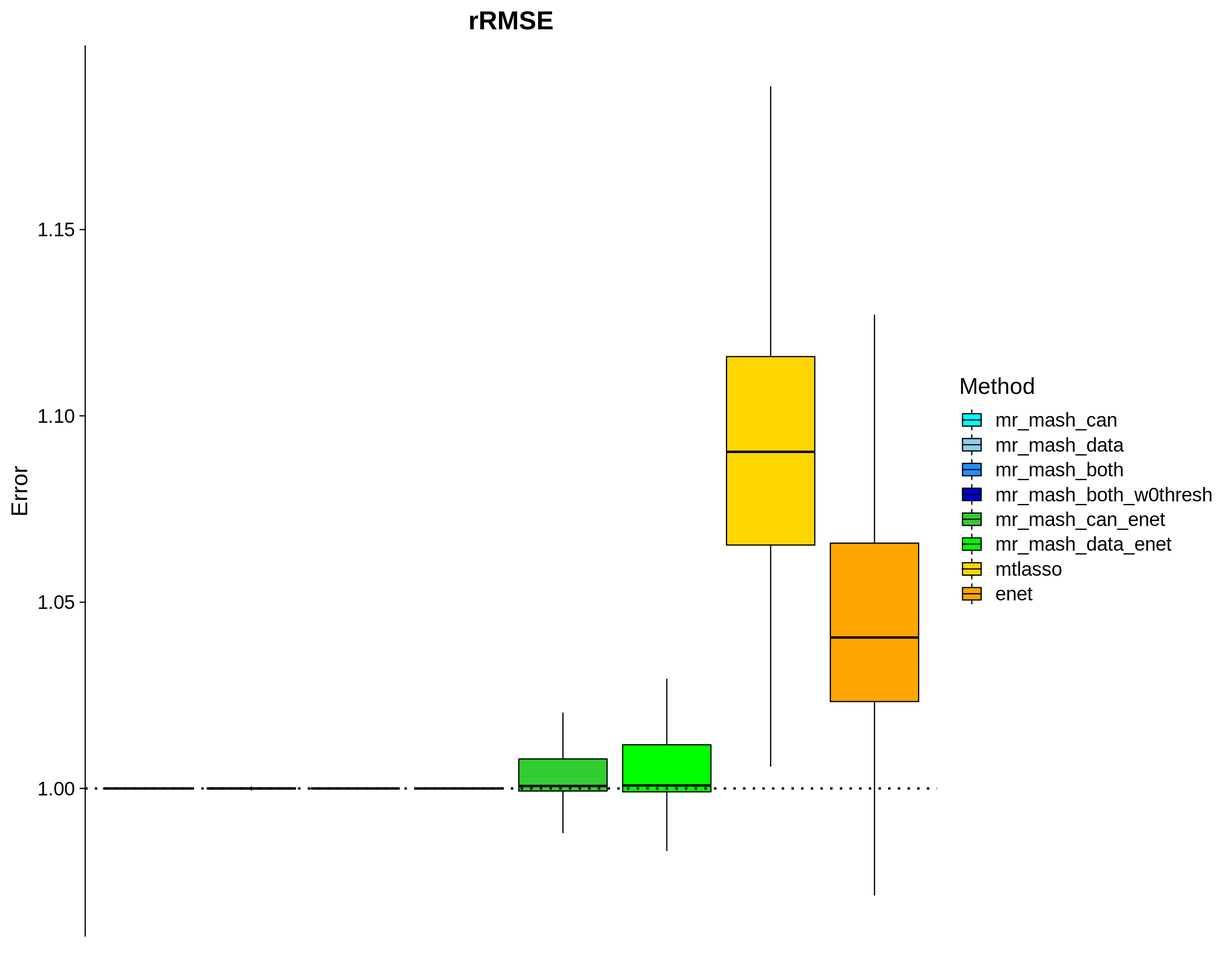
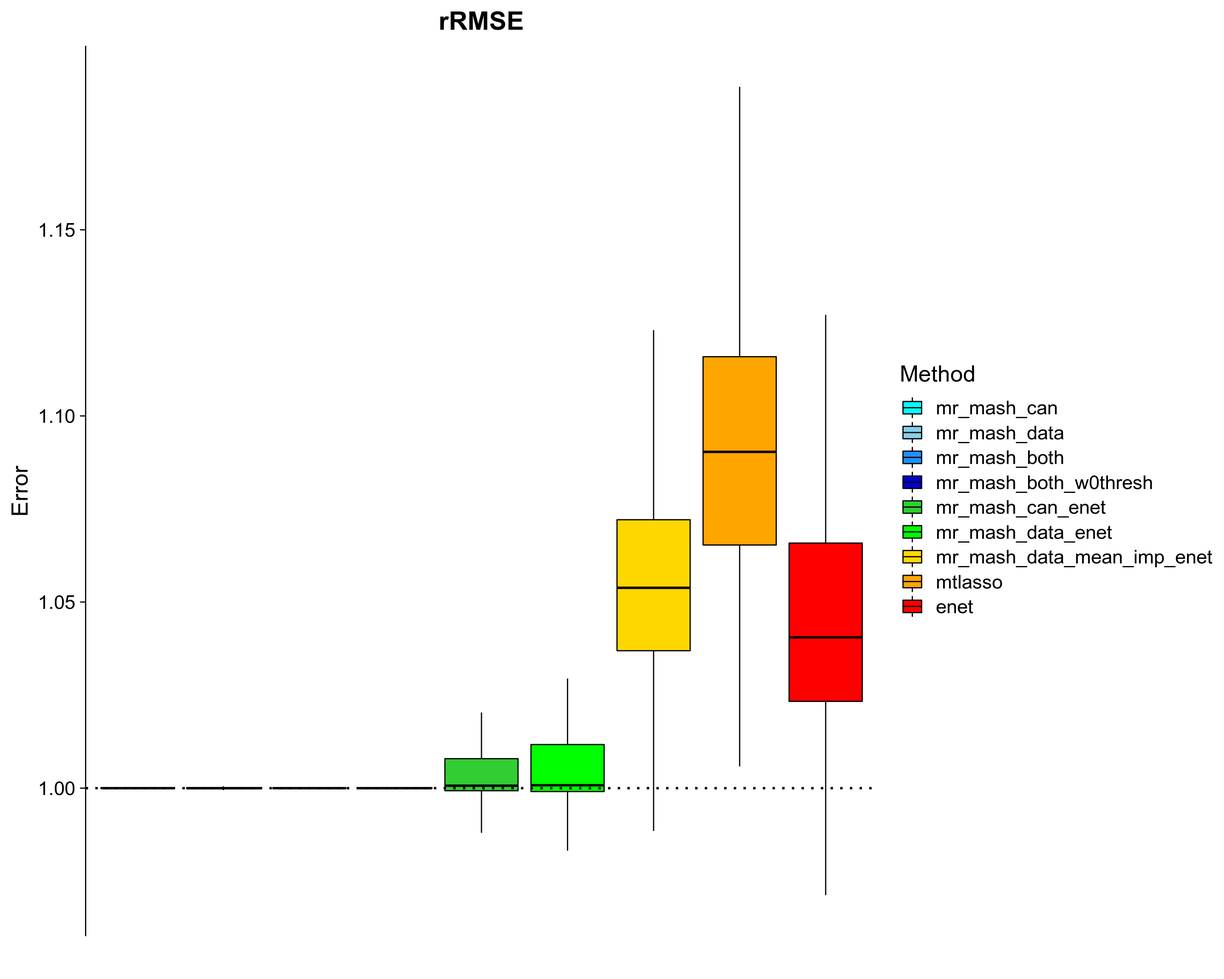
Build site.

diff --git a/docs/results_mvreg_all_genes_prior_GTExrealX_indepV_sharedB_r10_indepReps_missing_Y.html b/docs/results_mvreg_all_genes_prior_GTExrealX_indepV_sharedB_r10_indepReps_missing_Y.html
@@ -11,7 +11,7 @@
 
 <meta name="author" content="Fabio Morgante" />
 
-<meta name="date" content="2022-06-06" />
+<meta name="date" content="2023-02-20" />
 
 <title>Simulations with GTEx genotypes and shared effects – independent replicates and missing values in Y</title>
 
@@ -372,7 +372,7 @@ div.tocify {
 
 <h1 class="title toc-ignore">Simulations with GTEx genotypes and shared effects – independent replicates and missing values in Y</h1>
 <h4 class="author">Fabio Morgante</h4>
-<h4 class="date">June 06, 2022</h4>
+<h4 class="date">February 20, 2023</h4>
 
 </div>
 
@@ -397,7 +397,7 @@ div.tocify {
 <div class="tab-content">
 <div id="summary" class="tab-pane fade in active">
 <p>
-<strong>Last updated:</strong> 2022-06-06
+<strong>Last updated:</strong> 2023-02-20
 </p>
 <p>
 <strong>Checks:</strong> <span class="glyphicon glyphicon-ok text-success" aria-hidden="true"></span> 7 <span class="glyphicon glyphicon-exclamation-sign text-danger" aria-hidden="true"></span> 0
@@ -488,16 +488,16 @@ This reproducible <a href="http://rmarkdown.rstudio.com">R Markdown</a> analysis
 <div class="panel panel-default">
 <div class="panel-heading">
 <p class="panel-title">
-<a data-toggle="collapse" data-parent="#workflowr-checks" href="#strongRepositoryversionstrongahrefhttpsgithubcomfmorgantemrmashtesttree8738ba8e55485dc62240f3fbce866c8ad2acae44targetblank8738ba8a"> <span class="glyphicon glyphicon-ok text-success" aria-hidden="true"></span> <strong>Repository version:</strong> <a href="https://github.com/fmorgante/mr_mash_test/tree/8738ba8e55485dc62240f3fbce866c8ad2acae44" target="_blank">8738ba8</a> </a>
+<a data-toggle="collapse" data-parent="#workflowr-checks" href="#strongRepositoryversionstrongahrefhttpsgithubcomfmorgantemrmashtesttreeac84a008e03de774c5562d443e628610a813dfa7targetblankac84a00a"> <span class="glyphicon glyphicon-ok text-success" aria-hidden="true"></span> <strong>Repository version:</strong> <a href="https://github.com/fmorgante/mr_mash_test/tree/ac84a008e03de774c5562d443e628610a813dfa7" target="_blank">ac84a00</a> </a>
 </p>
 </div>
[2 lines of base64/hex data omitted]
 <div class="panel-body">
 <p>
 Great! You are using Git for version control. Tracking code development and connecting the code version to the results is critical for reproducibility.
 </p>
 <p>
-The results in this page were generated with repository version <a href="https://github.com/fmorgante/mr_mash_test/tree/8738ba8e55485dc62240f3fbce866c8ad2acae44" target="_blank">8738ba8</a>. See the <em>Past versions</em> tab to see a history of the changes made to the R Markdown and HTML files.
+The results in this page were generated with repository version <a href="https://github.com/fmorgante/mr_mash_test/tree/ac84a008e03de774c5562d443e628610a813dfa7" target="_blank">ac84a00</a>. See the <em>Past versions</em> tab to see a history of the changes made to the R Markdown and HTML files.
 </p>
 <p>
 Note that you need to be careful to ensure that all relevant files for the analysis have been committed to Git prior to generating the results (you can use <code>wflow_publish</code> or <code>wflow_git_commit</code>). workflowr only checks the R Markdown file, but you know if there are other scripts or data files that it depends on. Below is the status of the Git repository when the results were generated:
@@ -514,6 +514,8 @@ Ignored files:
     Ignored:    code/fit_mr_mash.66662433.err
     Ignored:    code/fit_mr_mash.66662433.out
     Ignored:    data/cis_eqtl_analysis_ready
+    Ignored:    data/gtex-v8-full-X-number-of-snps-summary-stats.txt
+    Ignored:    data/gtex-v8-full-X-number-of-snps.txt
     Ignored:    data/gtex-v8-ids-folds.txt
     Ignored:    data/gtex-v8-ids.txt
     Ignored:    data/gtex-v8-manifest-2ormore-tissues-nopath-nosuffix-batch1.txt
@@ -756,9 +758,7 @@ Ignored files:
     Ignored:    output/mvreg_all_genes_prior_GTExrealX_indepV_B_1causalrespr10_indepReps.tar
     Ignored:    output/mvreg_all_genes_prior_GTExrealX_indepV_B_1causalrespr10_indepReps_inter.tar
     Ignored:    output/mvreg_all_genes_prior_GTExrealX_indepV_B_1causalrespr10_indepReps_missing_Y.tar
-    Ignored:    output/mvreg_all_genes_prior_GTExrealX_indepV_B_1causalrespr10_indepReps_missing_Y/
     Ignored:    output/mvreg_all_genes_prior_GTExrealX_indepV_B_1causalrespr10_indepReps_missing_Y_inter.tar
-    Ignored:    output/mvreg_all_genes_prior_GTExrealX_indepV_B_1causalrespr10_indepReps_missing_Y_inter/
     Ignored:    output/mvreg_all_genes_prior_GTExrealX_indepV_B_1causalrespr10_inter.tar
     Ignored:    output/mvreg_all_genes_prior_GTExrealX_indepV_B_1causalrespr10_lowPVE.html
     Ignored:    output/mvreg_all_genes_prior_GTExrealX_indepV_B_1causalrespr10_lowPVE.tar
@@ -768,9 +768,7 @@ Ignored files:
     Ignored:    output/mvreg_all_genes_prior_GTExrealX_indepV_indepB_r10_indepReps.tar
     Ignored:    output/mvreg_all_genes_prior_GTExrealX_indepV_indepB_r10_indepReps_inter.tar
     Ignored:    output/mvreg_all_genes_prior_GTExrealX_indepV_indepB_r10_indepReps_missing_Y.tar
-    Ignored:    output/mvreg_all_genes_prior_GTExrealX_indepV_indepB_r10_indepReps_missing_Y/
     Ignored:    output/mvreg_all_genes_prior_GTExrealX_indepV_indepB_r10_indepReps_missing_Y_inter.tar
-    Ignored:    output/mvreg_all_genes_prior_GTExrealX_indepV_indepB_r10_indepReps_missing_Y_inter/
     Ignored:    output/mvreg_all_genes_prior_GTExrealX_indepV_indepB_r10_inter.tar
     Ignored:    output/mvreg_all_genes_prior_GTExrealX_indepV_indepB_r10_lowPVE.html
     Ignored:    output/mvreg_all_genes_prior_GTExrealX_indepV_indepB_r10_lowPVE.tar
@@ -783,9 +781,7 @@ Ignored files:
     Ignored:    output/mvreg_all_genes_prior_GTExrealX_indepV_sharedB_2blocksr10_diffPVE_indepReps.tar
     Ignored:    output/mvreg_all_genes_prior_GTExrealX_indepV_sharedB_2blocksr10_diffPVE_indepReps_inter.tar
     Ignored:    output/mvreg_all_genes_prior_GTExrealX_indepV_sharedB_2blocksr10_diffPVE_indepReps_missing_Y.tar
-    Ignored:    output/mvreg_all_genes_prior_GTExrealX_indepV_sharedB_2blocksr10_diffPVE_indepReps_missing_Y/
     Ignored:    output/mvreg_all_genes_prior_GTExrealX_indepV_sharedB_2blocksr10_diffPVE_indepReps_missing_Y_inter.tar
-    Ignored:    output/mvreg_all_genes_prior_GTExrealX_indepV_sharedB_2blocksr10_diffPVE_indepReps_missing_Y_inter/
     Ignored:    output/mvreg_all_genes_prior_GTExrealX_indepV_sharedB_2blocksr10_diffPVE_inter.tar
     Ignored:    output/mvreg_all_genes_prior_GTExrealX_indepV_sharedB_2blocksr10_inter.tar
     Ignored:    output/mvreg_all_genes_prior_GTExrealX_indepV_sharedB_2blocksr10_lowPVE.html
@@ -796,9 +792,7 @@ Ignored files:
     Ignored:    output/mvreg_all_genes_prior_GTExrealX_indepV_sharedB_3causalrespr10_indepReps.tar
     Ignored:    output/mvreg_all_genes_prior_GTExrealX_indepV_sharedB_3causalrespr10_indepReps_inter.tar
     Ignored:    output/mvreg_all_genes_prior_GTExrealX_indepV_sharedB_3causalrespr10_indepReps_missing_Y.tar
-    Ignored:    output/mvreg_all_genes_prior_GTExrealX_indepV_sharedB_3causalrespr10_indepReps_missing_Y/
     Ignored:    output/mvreg_all_genes_prior_GTExrealX_indepV_sharedB_3causalrespr10_indepReps_missing_Y_inter.tar
-    Ignored:    output/mvreg_all_genes_prior_GTExrealX_indepV_sharedB_3causalrespr10_indepReps_missing_Y_inter/
     Ignored:    output/mvreg_all_genes_prior_GTExrealX_indepV_sharedB_3causalrespr10_inter.tar
     Ignored:    output/mvreg_all_genes_prior_GTExrealX_indepV_sharedB_3causalrespr10_lowPVE.html
     Ignored:    output/mvreg_all_genes_prior_GTExrealX_indepV_sharedB_3causalrespr10_lowPVE.tar
@@ -836,7 +830,7 @@ Ignored files:
     Ignored:    output/mvreg_all_genes_prior_indepX_indepV_sharedB_3causalrespr10_inter.tar
     Ignored:    output/mvreg_mrmash_vs_mtlasso_vs_utmost.html
     Ignored:    output/mvreg_mrmash_vs_mtlasso_vs_utmost/
-    Ignored:    output/sims_paper_figures_inter/
+    Ignored:    output/test/
     Ignored:    output/test_dense_issue.rds
     Ignored:    output/test_sparse_issue.rds
     Ignored:    scripts/.sos/
@@ -880,6 +874,8 @@ Ignored files:
     Ignored:    scripts/compute_grid_cv_fold4_gtex.1457668.out
     Ignored:    scripts/compute_grid_cv_fold5_gtex.1457670.err
     Ignored:    scripts/compute_grid_cv_fold5_gtex.1457670.out
+    Ignored:    scripts/compute_number_of_snps_full_X_summary_stats_gtex.4279497.err
+    Ignored:    scripts/compute_number_of_snps_full_X_summary_stats_gtex.4279497.out
     Ignored:    scripts/compute_sumstats_cv_gtex.1383004.err
     Ignored:    scripts/compute_sumstats_cv_gtex.1383004.out
     Ignored:    scripts/compute_sumstats_cv_gtex.1403027.err
@@ -898,6 +894,8 @@ Ignored files:
     Ignored:    scripts/extract_effects_for_data-driven_cov_matrices_cv_fold5_gtex.1440832.out
     Ignored:    scripts/extract_gtex_ids.10523031.err
     Ignored:    scripts/extract_gtex_ids.10523031.out
+    Ignored:    scripts/fit_mrmash_wtccc_sim.1871971.err
+    Ignored:    scripts/fit_mrmash_wtccc_sim.1871971.out
     Ignored:    scripts/get_2ormore_tissues_gtex_v8_manifest.1139717.err
     Ignored:    scripts/get_2ormore_tissues_gtex_v8_manifest.1139717.out
     Ignored:    scripts/get_full_X_gtex_v8_manifest.10520041.err
@@ -920,8 +918,12 @@ Ignored files:
     Ignored:    scripts/get_missing_Y_rate_by_tissue_gtex_v8_manifest.1024109.out
     Ignored:    scripts/get_non_missing_number_samples_by_tissue_gtex_v8_manifest.1024106.err
     Ignored:    scripts/get_non_missing_number_samples_by_tissue_gtex_v8_manifest.1024106.out
+    Ignored:    scripts/get_number_of_snps_full_X_gtex.4264853.err
+    Ignored:    scripts/get_number_of_snps_full_X_gtex.4264853.out
     Ignored:    scripts/get_number_of_tissues_gtex_v8_manifest.1138137.err
     Ignored:    scripts/get_number_of_tissues_gtex_v8_manifest.1138137.out
+    Ignored:    scripts/mrmash_enet_mtlasso_score_10genes_gtex.4111733.err
+    Ignored:    scripts/mrmash_enet_mtlasso_score_10genes_gtex.4111733.out
     Ignored:    scripts/mrmash_enet_mtlasso_score_gtex_test.2692299.err
     Ignored:    scripts/mrmash_enet_mtlasso_score_gtex_test.2692299.out
     Ignored:    scripts/mrmash_enet_score_batch1_gtex.2855527.err
@@ -2690,6 +2692,46 @@ Ignored files:
     Ignored:    scripts/mvreg_all_genes_prior_GTExrealX_indepV_sharedB_r10_indepReps_missing_Y_pipeline_array/mvreg_all_genes_prior_GTExrealX_indepV_sharedB_r10_indepReps_missing_Y_pipeline_array.1014494.out
     Ignored:    scripts/mvreg_all_genes_prior_GTExrealX_indepV_sharedB_r10_indepReps_missing_Y_pipeline_array/mvreg_all_genes_prior_GTExrealX_indepV_sharedB_r10_indepReps_missing_Y_pipeline_array.1014495.err
     Ignored:    scripts/mvreg_all_genes_prior_GTExrealX_indepV_sharedB_r10_indepReps_missing_Y_pipeline_array/mvreg_all_genes_prior_GTExrealX_indepV_sharedB_r10_indepReps_missing_Y_pipeline_array.1014495.out
+    Ignored:    scripts/mvreg_all_genes_prior_GTExrealX_indepV_sharedB_r10_indepReps_missing_Y_pipeline_array/mvreg_all_genes_prior_GTExrealX_indepV_sharedB_r10_indepReps_missing_Y_pipeline_array.1869491.err
+    Ignored:    scripts/mvreg_all_genes_prior_GTExrealX_indepV_sharedB_r10_indepReps_missing_Y_pipeline_array/mvreg_all_genes_prior_GTExrealX_indepV_sharedB_r10_indepReps_missing_Y_pipeline_array.1869491.out
+    Ignored:    scripts/mvreg_all_genes_prior_GTExrealX_indepV_sharedB_r10_indepReps_missing_Y_pipeline_array/mvreg_all_genes_prior_GTExrealX_indepV_sharedB_r10_indepReps_missing_Y_pipeline_array.1869578.err
+    Ignored:    scripts/mvreg_all_genes_prior_GTExrealX_indepV_sharedB_r10_indepReps_missing_Y_pipeline_array/mvreg_all_genes_prior_GTExrealX_indepV_sharedB_r10_indepReps_missing_Y_pipeline_array.1869578.out
+    Ignored:    scripts/mvreg_all_genes_prior_GTExrealX_indepV_sharedB_r10_indepReps_missing_Y_pipeline_array/mvreg_all_genes_prior_GTExrealX_indepV_sharedB_r10_indepReps_missing_Y_pipeline_array.1869579.err
+    Ignored:    scripts/mvreg_all_genes_prior_GTExrealX_indepV_sharedB_r10_indepReps_missing_Y_pipeline_array/mvreg_all_genes_prior_GTExrealX_indepV_sharedB_r10_indepReps_missing_Y_pipeline_array.1869579.out
+    Ignored:    scripts/mvreg_all_genes_prior_GTExrealX_indepV_sharedB_r10_indepReps_missing_Y_pipeline_array/mvreg_all_genes_prior_GTExrealX_indepV_sharedB_r10_indepReps_missing_Y_pipeline_array.1869580.err
+    Ignored:    scripts/mvreg_all_genes_prior_GTExrealX_indepV_sharedB_r10_indepReps_missing_Y_pipeline_array/mvreg_all_genes_prior_GTExrealX_indepV_sharedB_r10_indepReps_missing_Y_pipeline_array.1869580.out
+    Ignored:    scripts/mvreg_all_genes_prior_GTExrealX_indepV_sharedB_r10_indepReps_missing_Y_pipeline_array/mvreg_all_genes_prior_GTExrealX_indepV_sharedB_r10_indepReps_missing_Y_pipeline_array.1869581.err
+    Ignored:    scripts/mvreg_all_genes_prior_GTExrealX_indepV_sharedB_r10_indepReps_missing_Y_pipeline_array/mvreg_all_genes_prior_GTExrealX_indepV_sharedB_r10_indepReps_missing_Y_pipeline_array.1869581.out
+    Ignored:    scripts/mvreg_all_genes_prior_GTExrealX_indepV_sharedB_r10_indepReps_missing_Y_pipeline_array/mvreg_all_genes_prior_GTExrealX_indepV_sharedB_r10_indepReps_missing_Y_pipeline_array.1869582.err
+    Ignored:    scripts/mvreg_all_genes_prior_GTExrealX_indepV_sharedB_r10_indepReps_missing_Y_pipeline_array/mvreg_all_genes_prior_GTExrealX_indepV_sharedB_r10_indepReps_missing_Y_pipeline_array.1869582.out
+    Ignored:    scripts/mvreg_all_genes_prior_GTExrealX_indepV_sharedB_r10_indepReps_missing_Y_pipeline_array/mvreg_all_genes_prior_GTExrealX_indepV_sharedB_r10_indepReps_missing_Y_pipeline_array.1869583.err
+    Ignored:    scripts/mvreg_all_genes_prior_GTExrealX_indepV_sharedB_r10_indepReps_missing_Y_pipeline_array/mvreg_all_genes_prior_GTExrealX_indepV_sharedB_r10_indepReps_missing_Y_pipeline_array.1869583.out
+    Ignored:    scripts/mvreg_all_genes_prior_GTExrealX_indepV_sharedB_r10_indepReps_missing_Y_pipeline_array/mvreg_all_genes_prior_GTExrealX_indepV_sharedB_r10_indepReps_missing_Y_pipeline_array.1869584.err
+    Ignored:    scripts/mvreg_all_genes_prior_GTExrealX_indepV_sharedB_r10_indepReps_missing_Y_pipeline_array/mvreg_all_genes_prior_GTExrealX_indepV_sharedB_r10_indepReps_missing_Y_pipeline_array.1869584.out
+    Ignored:    scripts/mvreg_all_genes_prior_GTExrealX_indepV_sharedB_r10_indepReps_missing_Y_pipeline_array/mvreg_all_genes_prior_GTExrealX_indepV_sharedB_r10_indepReps_missing_Y_pipeline_array.1869585.err
+    Ignored:    scripts/mvreg_all_genes_prior_GTExrealX_indepV_sharedB_r10_indepReps_missing_Y_pipeline_array/mvreg_all_genes_prior_GTExrealX_indepV_sharedB_r10_indepReps_missing_Y_pipeline_array.1869585.out
+    Ignored:    scripts/mvreg_all_genes_prior_GTExrealX_indepV_sharedB_r10_indepReps_missing_Y_pipeline_array/mvreg_all_genes_prior_GTExrealX_indepV_sharedB_r10_indepReps_missing_Y_pipeline_array.1869586.err
+    Ignored:    scripts/mvreg_all_genes_prior_GTExrealX_indepV_sharedB_r10_indepReps_missing_Y_pipeline_array/mvreg_all_genes_prior_GTExrealX_indepV_sharedB_r10_indepReps_missing_Y_pipeline_array.1869586.out
+    Ignored:    scripts/mvreg_all_genes_prior_GTExrealX_indepV_sharedB_r10_indepReps_missing_Y_pipeline_array/mvreg_all_genes_prior_GTExrealX_indepV_sharedB_r10_indepReps_missing_Y_pipeline_array.1869587.err
+    Ignored:    scripts/mvreg_all_genes_prior_GTExrealX_indepV_sharedB_r10_indepReps_missing_Y_pipeline_array/mvreg_all_genes_prior_GTExrealX_indepV_sharedB_r10_indepReps_missing_Y_pipeline_array.1869587.out
+    Ignored:    scripts/mvreg_all_genes_prior_GTExrealX_indepV_sharedB_r10_indepReps_missing_Y_pipeline_array/mvreg_all_genes_prior_GTExrealX_indepV_sharedB_r10_indepReps_missing_Y_pipeline_array.1869588.err
+    Ignored:    scripts/mvreg_all_genes_prior_GTExrealX_indepV_sharedB_r10_indepReps_missing_Y_pipeline_array/mvreg_all_genes_prior_GTExrealX_indepV_sharedB_r10_indepReps_missing_Y_pipeline_array.1869588.out
+    Ignored:    scripts/mvreg_all_genes_prior_GTExrealX_indepV_sharedB_r10_indepReps_missing_Y_pipeline_array/mvreg_all_genes_prior_GTExrealX_indepV_sharedB_r10_indepReps_missing_Y_pipeline_array.1869589.err
+    Ignored:    scripts/mvreg_all_genes_prior_GTExrealX_indepV_sharedB_r10_indepReps_missing_Y_pipeline_array/mvreg_all_genes_prior_GTExrealX_indepV_sharedB_r10_indepReps_missing_Y_pipeline_array.1869589.out
+    Ignored:    scripts/mvreg_all_genes_prior_GTExrealX_indepV_sharedB_r10_indepReps_missing_Y_pipeline_array/mvreg_all_genes_prior_GTExrealX_indepV_sharedB_r10_indepReps_missing_Y_pipeline_array.1869590.err
+    Ignored:    scripts/mvreg_all_genes_prior_GTExrealX_indepV_sharedB_r10_indepReps_missing_Y_pipeline_array/mvreg_all_genes_prior_GTExrealX_indepV_sharedB_r10_indepReps_missing_Y_pipeline_array.1869590.out
+    Ignored:    scripts/mvreg_all_genes_prior_GTExrealX_indepV_sharedB_r10_indepReps_missing_Y_pipeline_array/mvreg_all_genes_prior_GTExrealX_indepV_sharedB_r10_indepReps_missing_Y_pipeline_array.1869591.err
+    Ignored:    scripts/mvreg_all_genes_prior_GTExrealX_indepV_sharedB_r10_indepReps_missing_Y_pipeline_array/mvreg_all_genes_prior_GTExrealX_indepV_sharedB_r10_indepReps_missing_Y_pipeline_array.1869591.out
+    Ignored:    scripts/mvreg_all_genes_prior_GTExrealX_indepV_sharedB_r10_indepReps_missing_Y_pipeline_array/mvreg_all_genes_prior_GTExrealX_indepV_sharedB_r10_indepReps_missing_Y_pipeline_array.1869592.err
+    Ignored:    scripts/mvreg_all_genes_prior_GTExrealX_indepV_sharedB_r10_indepReps_missing_Y_pipeline_array/mvreg_all_genes_prior_GTExrealX_indepV_sharedB_r10_indepReps_missing_Y_pipeline_array.1869592.out
+    Ignored:    scripts/mvreg_all_genes_prior_GTExrealX_indepV_sharedB_r10_indepReps_missing_Y_pipeline_array/mvreg_all_genes_prior_GTExrealX_indepV_sharedB_r10_indepReps_missing_Y_pipeline_array.1869593.err
+    Ignored:    scripts/mvreg_all_genes_prior_GTExrealX_indepV_sharedB_r10_indepReps_missing_Y_pipeline_array/mvreg_all_genes_prior_GTExrealX_indepV_sharedB_r10_indepReps_missing_Y_pipeline_array.1869593.out
+    Ignored:    scripts/mvreg_all_genes_prior_GTExrealX_indepV_sharedB_r10_indepReps_missing_Y_pipeline_array/mvreg_all_genes_prior_GTExrealX_indepV_sharedB_r10_indepReps_missing_Y_pipeline_array.1869594.err
+    Ignored:    scripts/mvreg_all_genes_prior_GTExrealX_indepV_sharedB_r10_indepReps_missing_Y_pipeline_array/mvreg_all_genes_prior_GTExrealX_indepV_sharedB_r10_indepReps_missing_Y_pipeline_array.1869594.out
+    Ignored:    scripts/mvreg_all_genes_prior_GTExrealX_indepV_sharedB_r10_indepReps_missing_Y_pipeline_array/mvreg_all_genes_prior_GTExrealX_indepV_sharedB_r10_indepReps_missing_Y_pipeline_array.1869595.err
+    Ignored:    scripts/mvreg_all_genes_prior_GTExrealX_indepV_sharedB_r10_indepReps_missing_Y_pipeline_array/mvreg_all_genes_prior_GTExrealX_indepV_sharedB_r10_indepReps_missing_Y_pipeline_array.1869595.out
+    Ignored:    scripts/mvreg_all_genes_prior_GTExrealX_indepV_sharedB_r10_indepReps_missing_Y_pipeline_array/mvreg_all_genes_prior_GTExrealX_indepV_sharedB_r10_indepReps_missing_Y_pipeline_array.1869596.err
+    Ignored:    scripts/mvreg_all_genes_prior_GTExrealX_indepV_sharedB_r10_indepReps_missing_Y_pipeline_array/mvreg_all_genes_prior_GTExrealX_indepV_sharedB_r10_indepReps_missing_Y_pipeline_array.1869596.out
     Ignored:    scripts/mvreg_all_genes_prior_GTExrealX_indepV_sharedB_r10_indepReps_missing_Y_pipeline_array/mvreg_all_genes_prior_GTExrealX_indepV_sharedB_r10_indepReps_missing_Y_pipeline_array.4074003.err
     Ignored:    scripts/mvreg_all_genes_prior_GTExrealX_indepV_sharedB_r10_indepReps_missing_Y_pipeline_array/mvreg_all_genes_prior_GTExrealX_indepV_sharedB_r10_indepReps_missing_Y_pipeline_array.4074003.out
     Ignored:    scripts/mvreg_all_genes_prior_GTExrealX_indepV_sharedB_r10_indepReps_missing_Y_pipeline_array/mvreg_all_genes_prior_GTExrealX_indepV_sharedB_r10_indepReps_missing_Y_pipeline_array.4074004.err
@@ -2993,10 +3035,20 @@ Ignored files:
     Ignored:    scripts/mvreg_mrmash_vs_mtlasso_vs_utmost.1216694.err
     Ignored:    scripts/mvreg_mrmash_vs_mtlasso_vs_utmost.1216694.out
     Ignored:    scripts/outfiles/
-    Ignored:    scripts/paper_figures/make_sims_plots.4062588.err
-    Ignored:    scripts/paper_figures/make_sims_plots.4062588.out
+    Ignored:    scripts/paper_figures/make_gtex_1000_genes_plot.4120449.err
+    Ignored:    scripts/paper_figures/make_gtex_1000_genes_plot.4120449.out
+    Ignored:    scripts/paper_figures/make_gtex_10_genes_plot.4115588.err
+    Ignored:    scripts/paper_figures/make_gtex_10_genes_plot.4115588.out
+    Ignored:    scripts/paper_figures/make_gtex_tPCA_heatmap_fold_1.4733602.err
+    Ignored:    scripts/paper_figures/make_gtex_tPCA_heatmap_fold_1.4733602.out
+    Ignored:    scripts/paper_figures/make_sims_missing_Y_plots.4218494.err
+    Ignored:    scripts/paper_figures/make_sims_missing_Y_plots.4218494.out
+    Ignored:    scripts/paper_figures/make_sims_plots.4218495.err
+    Ignored:    scripts/paper_figures/make_sims_plots.4218495.out
     Ignored:    scripts/paper_figures/prepare_sims_intermediate_files.4048873.err
     Ignored:    scripts/paper_figures/prepare_sims_intermediate_files.4048873.out
+    Ignored:    scripts/paper_figures/prepare_sims_missing_Y_intermediate_files.4074397.err
+    Ignored:    scripts/paper_figures/prepare_sims_missing_Y_intermediate_files.4074397.out
     Ignored:    scripts/plot_data-driven_cov_matrices_bovy_ed_cv_fold1_gtex.1442796.err
     Ignored:    scripts/plot_data-driven_cov_matrices_bovy_ed_cv_fold1_gtex.1442796.out
     Ignored:    scripts/plot_data-driven_cov_matrices_bovy_ed_cv_fold2_gtex.1442797.err
@@ -3048,13 +3100,17 @@ Untracked files:
     Untracked:  analysis/dense_issue_investigation2/
     Untracked:  analysis/paper_figures/
     Untracked:  code/20200502_Prepare_ED_prior.ipynb
+    Untracked:  code/fit_mrmash_wtccc_sim.R
     Untracked:  code/plot_test.R
     Untracked:  code/pred_fullV_LNP1.R
     Untracked:  code/predict_mrmash_by_fold_test.R
     Untracked:  code/predict_mrmash_by_fold_test_2threads.R
     Untracked:  code/predict_mrmash_by_fold_test_4threads.R
     Untracked:  code/predict_mrmash_by_fold_test_8threads.R
+    Untracked:  data/t1d.RData
     Untracked:  dsc/mvreg_all_genes_prior_09_11_20_COPY.dsc
+    Untracked:  perc_nonnull_mixture_weights_across_genes_fold_1.rds
+    Untracked:  scripts/run_fit_mrmash_wtccc_sim.sbatch
     Untracked:  scripts/run_predict_mrmash_by_fold_test.sbatch
     Untracked:  scripts/run_predict_mrmash_by_fold_test_2threads.sbatch
     Untracked:  scripts/run_predict_mrmash_by_fold_test_4threads.sbatch
@@ -3097,6 +3153,40 @@ Message
 </tr>
 </thead>
 <tbody>
+<tr>
+<td>
+Rmd
+</td>
+<td>
+<a href="https://github.com/fmorgante/mr_mash_test/blob/ac84a008e03de774c5562d443e628610a813dfa7/analysis/results_mvreg_all_genes_prior_GTExrealX_indepV_sharedB_r10_indepReps_missing_Y.Rmd" target="_blank">ac84a00</a>
+</td>
+<td>
+Fabio Morgante
+</td>
+<td>
+2023-02-20
+</td>
+<td>
+Add mean imputation
+</td>
+</tr>
+<tr>
+<td>
+html
+</td>
+<td>
+<a href="https://rawcdn.githack.com/fmorgante/mr_mash_test/b186ad26ce6fde77f69e5eb7541bdc6f1161f06b/docs/results_mvreg_all_genes_prior_GTExrealX_indepV_sharedB_r10_indepReps_missing_Y.html" target="_blank">b186ad2</a>
+</td>
+<td>
+Fabio Morgante
+</td>
+<td>
+2022-06-06
+</td>
+<td>
+Build site.
+</td>
+</tr>
 <tr>
 <td>
 Rmd
@@ -3277,7 +3367,7 @@ colors &lt;- c(&quot;cyan&quot;, &quot;skyblue&quot;, &quot;dodgerblue&quot;, &q
   dsc_out &lt;- dscquery(paste0(&quot;output/mvreg_all_genes_prior_GTExrealX_indepV_sharedB_r10_indepReps_missing_Y/rep&quot;, repl), 
                       c(&quot;simulate.p_causal&quot;, &quot;simulate.r&quot;, &quot;simulate.r_causal&quot;, &quot;simulate.pve&quot;, &quot;simulate.B_cor&quot;, &quot;simulate.w&quot;, 
                         &quot;simulate.B_scale&quot;, &quot;simulate.V_cor&quot;, &quot;simulate&quot;, &quot;fit&quot;, &quot;score&quot;, &quot;score.err&quot;, &quot;fit.time&quot;), 
-                      groups=&quot;fit: mr_mash_em_data_enet, mr_mash_em_can_enet, mr_mash_em_can_mlasso, mr_mash_em_data_mlasso, mr_mash_em_dataAndcan_mlasso, mr_mash_em_dataAndcan_dropcomp_mlasso, mtlasso, enet&quot;,
+                      groups=&quot;fit: mr_mash_em_data_mean_impute_enet, mr_mash_em_data_enet, mr_mash_em_can_enet, mr_mash_em_can_mlasso, mr_mash_em_data_mlasso, mr_mash_em_dataAndcan_mlasso, mr_mash_em_dataAndcan_dropcomp_mlasso, mtlasso, enet&quot;,
               verbose=FALSE)
   
   ###Convert from list to data.frame for plotting
@@ -3337,9 +3427,10 @@ dsc_plots &lt;- dsc_plots[which(dsc_plots$score_metric!=&quot;scaled_rmse&quot; 
 ###Create factor version of method
 dsc_plots$method_fac &lt;- factor(dsc_plots$method, levels=c(&quot;mr_mash_em_can_mlasso&quot;, &quot;mr_mash_em_data_mlasso&quot;,
                                                             &quot;mr_mash_em_dataAndcan_mlasso&quot;, &quot;mr_mash_em_dataAndcan_dropcomp_mlasso&quot;, 
-                                                            &quot;mr_mash_em_can_enet&quot;, &quot;mr_mash_em_data_enet&quot;, &quot;mtlasso&quot;, &quot;enet&quot;),
+                                                            &quot;mr_mash_em_can_enet&quot;, &quot;mr_mash_em_data_enet&quot;, &quot;mr_mash_em_data_mean_impute_enet&quot;, 
+&quot;mtlasso&quot;, &quot;enet&quot;),
                                  labels=c(&quot;mr_mash_can&quot;, &quot;mr_mash_data&quot;, &quot;mr_mash_both&quot;, &quot;mr_mash_both_w0thresh&quot;, 
-                                          &quot;mr_mash_can_enet&quot;, &quot;mr_mash_data_enet&quot;, &quot;mtlasso&quot;, &quot;enet&quot;))
+                                          &quot;mr_mash_can_enet&quot;, &quot;mr_mash_data_enet&quot;, &quot;mr_mash_data_mean_imp_enet&quot;, &quot;mtlasso&quot;, &quot;enet&quot;))
 
 ###Create plots
 p_rrmse &lt;- ggplot(dsc_plots[which(dsc_plots$score_metric==&quot;scaled_rrmse&quot;), ], aes_string(x = &quot;method_fac&quot;, y = &quot;score_value&quot;, fill = &quot;method_fac&quot;)) +
@@ -3374,6 +3465,17 @@ Date
 </tr>
 </thead>
 <tbody>
+<tr>
+<td>
+<a href="https://github.com/fmorgante/mr_mash_test/blob/b186ad26ce6fde77f69e5eb7541bdc6f1161f06b/docs/figure/results_mvreg_all_genes_prior_GTExrealX_indepV_sharedB_r10_indepReps_missing_Y.Rmd/accuracy vs others-1.png" target="_blank">b186ad2</a>
+</td>
+<td>
+Fabio Morgante
+</td>
+<td>
+2022-06-06
+</td>
+</tr>
 <tr>
 <td>
 <a href="https://github.com/fmorgante/mr_mash_test/blob/b8d714775a84013df41543e28132895409b9c93c/docs/figure/results_mvreg_all_genes_prior_GTExrealX_indepV_sharedB_r10_indepReps_missing_Y.Rmd/accuracy vs others-1.png" target="_blank">b8d7147</a>
@@ -3433,6 +3535,17 @@ Date
 </tr>
 </thead>
 <tbody>
+<tr>
+<td>
+<a href="https://github.com/fmorgante/mr_mash_test/blob/b186ad26ce6fde77f69e5eb7541bdc6f1161f06b/docs/figure/results_mvreg_all_genes_prior_GTExrealX_indepV_sharedB_r10_indepReps_missing_Y.Rmd/accuracy no outliers-1.png" target="_blank">b186ad2</a>
+</td>
+<td>
+Fabio Morgante
+</td>
+<td>
+2022-06-06
+</td>
+</tr>
 <tr>
 <td>
 <a href="https://github.com/fmorgante/mr_mash_test/blob/b8d714775a84013df41543e28132895409b9c93c/docs/figure/results_mvreg_all_genes_prior_GTExrealX_indepV_sharedB_r10_indepReps_missing_Y.Rmd/accuracy no outliers-1.png" target="_blank">b8d7147</a>
@@ -3499,6 +3612,17 @@ Date
 <tbody>
 <tr>
 <td>
+<a href="https://github.com/fmorgante/mr_mash_test/blob/b186ad26ce6fde77f69e5eb7541bdc6f1161f06b/docs/figure/results_mvreg_all_genes_prior_GTExrealX_indepV_sharedB_r10_indepReps_missing_Y.Rmd/run time-1.png" target="_blank">b186ad2</a>
+</td>
+<td>
+Fabio Morgante
+</td>
+<td>
+2022-06-06
+</td>
+</tr>
+<tr>
+<td>
 <a href="https://github.com/fmorgante/mr_mash_test/blob/b8d714775a84013df41543e28132895409b9c93c/docs/figure/results_mvreg_all_genes_prior_GTExrealX_indepV_sharedB_r10_indepReps_missing_Y.Rmd/run time-1.png" target="_blank">b8d7147</a>
 </td>
 <td>
@@ -3533,7 +3657,7 @@ fmorgante
 <pre class="r"><code>sessionInfo()</code></pre>
 <pre><code>R version 4.0.3 (2020-10-10)
 Platform: x86_64-conda-linux-gnu (64-bit)
-Running under: CentOS Linux 8
+Running under: Red Hat Enterprise Linux 8.4 (Ootpa)
 
 Matrix products: default
 BLAS/LAPACK: /scratch/midway3/fmorgante/miniconda3/envs/py38dsc/lib/libopenblasp-r0.3.12.so

diff --git a/docs/site_libs/navigation-1.1/codefolding.js b/docs/site_libs/navigation-1.1/codefolding.js
@@ -23,6 +23,7 @@ window.initializeCodeFolding = function(show) {
     // create a collapsable div to wrap the code in
     var div = $('<div class="collapse r-code-collapse"></div>');
     var showThis = (show || $(this).hasClass('fold-show')) && !$(this).hasClass('fold-hide');
+    if (showThis) div.collapse('show');
     var id = 'rcode-643E0F36' + currentIndex++;
     div.attr('id', id);
     $(this).before(div);
@@ -46,27 +47,13 @@ window.initializeCodeFolding = function(show) {
 
     div.before(buttonRow);
 
-    // show the div if necessary
-    if (showThis) div.collapse('show');
-
     // update state of button on show/hide
-    //   * Change text
-    //   * add a class for intermediate states styling
-    div.on('hide.bs.collapse', function () {
-      showCodeText.text('Code');
-      showCodeButton.addClass('btn-collapsing');
-    });
     div.on('hidden.bs.collapse', function () {
-      showCodeButton.removeClass('btn-collapsing');
+      showCodeText.text('Code');
     });
     div.on('show.bs.collapse', function () {
       showCodeText.text('Hide');
-      showCodeButton.addClass('btn-expanding');
     });
-    div.on('shown.bs.collapse', function () {
-      showCodeButton.removeClass('btn-expanding');
-    });
-
   });
 
 }
